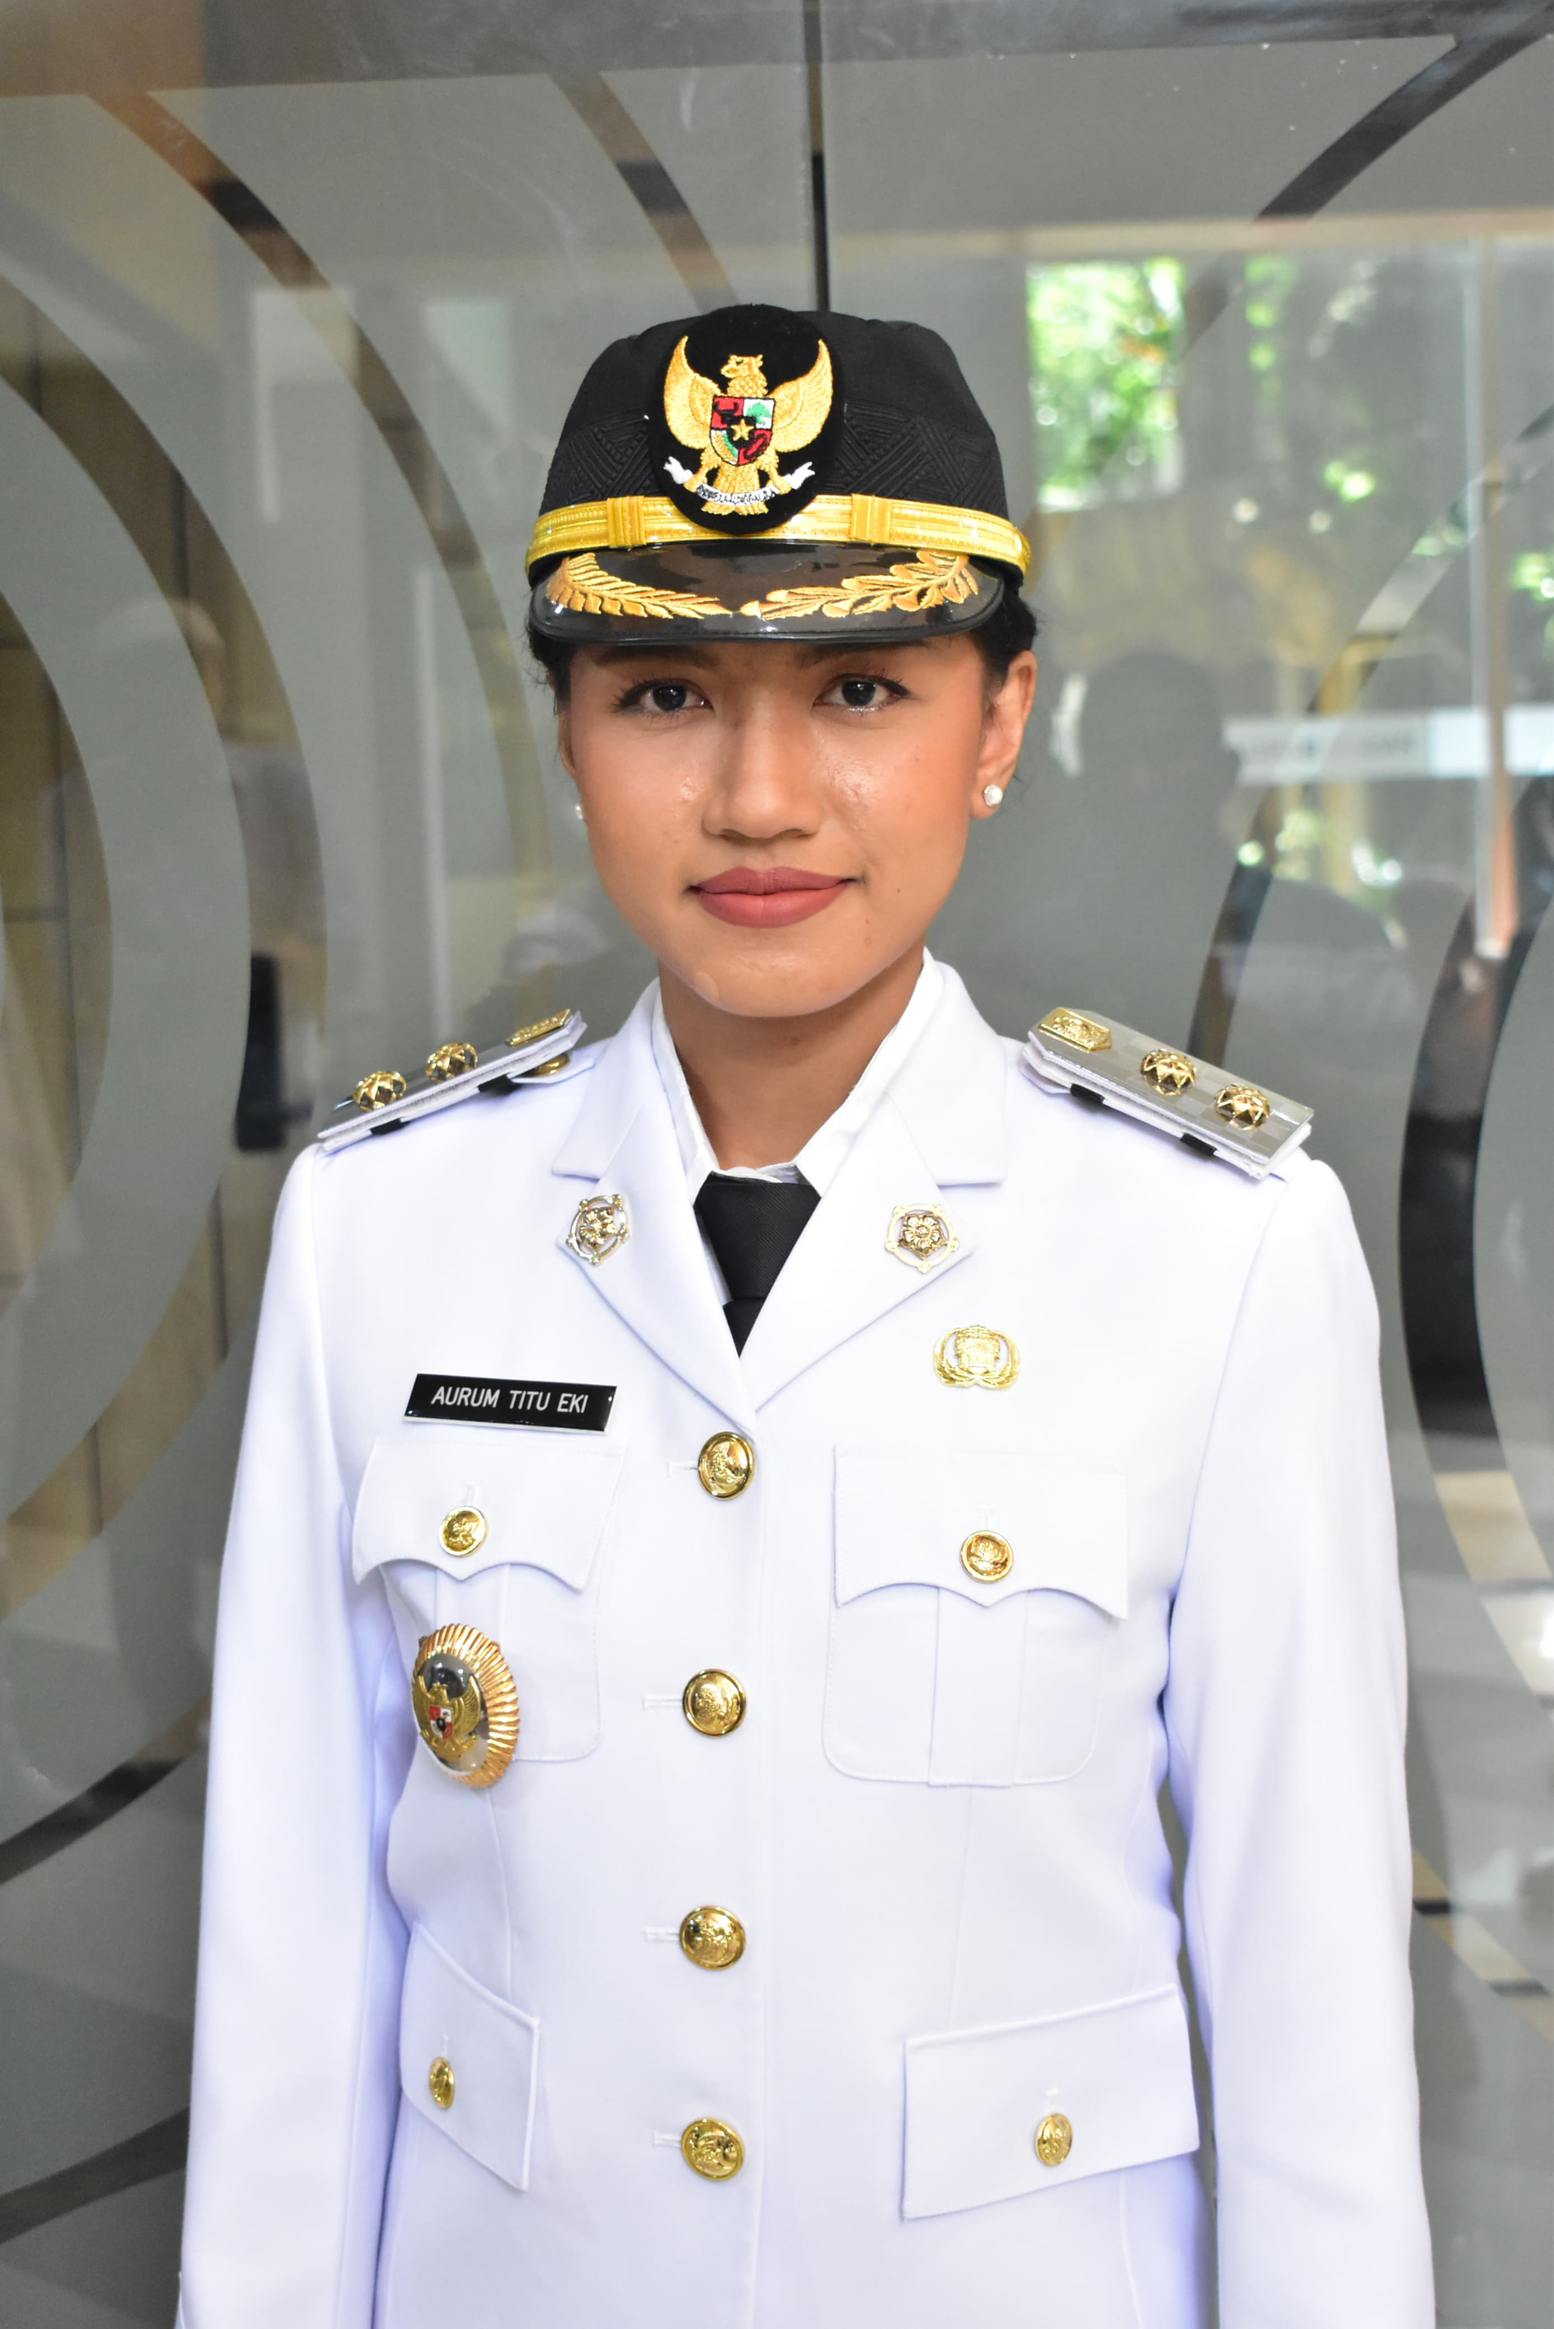
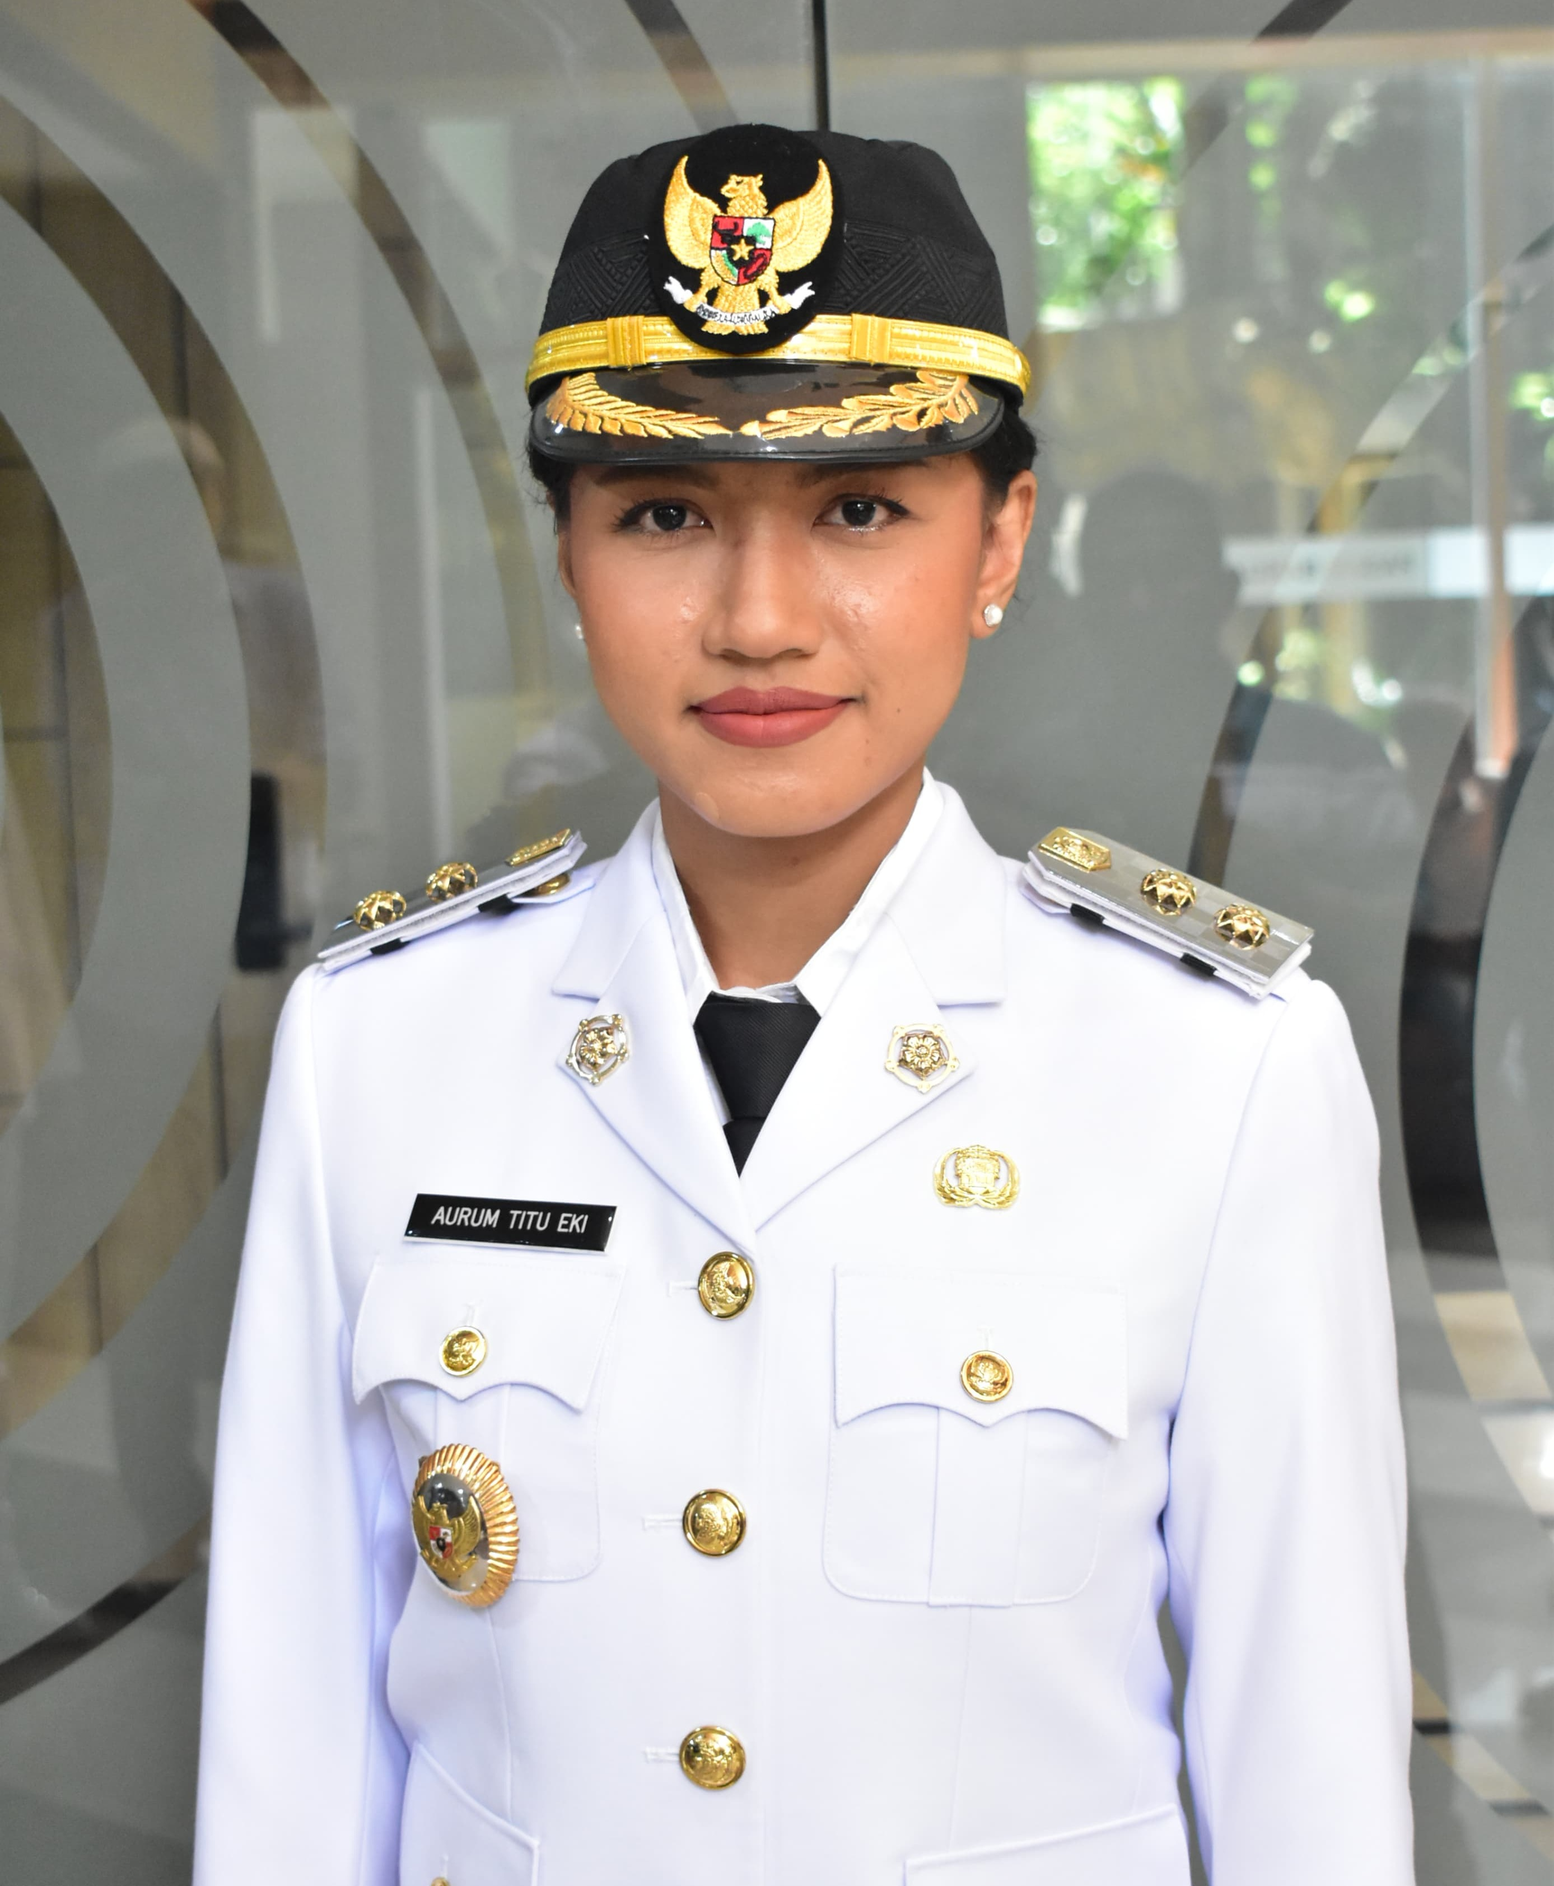
feat: update LeadershipSectionAlternative layout and image handling for better responsiveness

diff --git a/components/home/LeadershipSectionAlternative.jsx b/components/home/LeadershipSectionAlternative.jsx
@@ -38,21 +38,21 @@ export default function LeadershipSectionAlternative() {
           </p>
         </motion.div>
 
-        <div className="flex flex-col md:flex-row gap-8 max-w-6xl mx-auto">
+        <div className="flex flex-col md:flex-row justify-center flex-wrap gap-8 max-w-2xl mx-auto">
           {/* Bupati */}
           <motion.div
             initial={{ opacity: 0, y: 30 }}
             whileInView={{ opacity: 1, y: 0 }}
             viewport={{ once: true }}
             transition={{ duration: 0.6 }}
-            className="flex-1 bg-white/10 backdrop-blur-sm rounded-lg overflow-hidden shadow-xl"
+            className="flex-1 max-w-[360px] bg-white/10 backdrop-blur-sm rounded-lg overflow-hidden shadow-xl mx-auto"
           >
-            <div className="relative h-[690px] overflow-hidden">
+            <div className="relative w-full h-[450px] overflow-hidden">
               <Image
                 src={BupImg}
                 alt="Bupati Kabupaten Kupang"
                 fill
-                className="object-cover object-center"
+                className="object-cover object-top"
                 priority
               />
             </div>
@@ -74,19 +74,21 @@ export default function LeadershipSectionAlternative() {
             whileInView={{ opacity: 1, y: 0 }}
             viewport={{ once: true }}
             transition={{ duration: 0.6, delay: 0.2 }}
-            className="flex-1 bg-white/10 backdrop-blur-sm rounded-lg overflow-hidden shadow-xl"
+            className="flex-1 max-w-[360px] bg-white/10 backdrop-blur-sm rounded-lg overflow-hidden shadow-xl mx-auto"
           >
-            <div className="relative h-[690px] overflow-hidden">
+            <div className="relative w-full h-[450px] overflow-hidden">
               <Image
                 src={WabupImg}
                 alt="Wakil Bupati Kabupaten Kupang"
                 fill
-                className="object-cover object-center"
+                className="object-cover object-top"
                 priority
               />
             </div>
             <div className="p-6">
-              <h3 className="text-2xl font-bold mb-1">Aurum Obe Titu Eki, S.Ars., M.Ars.</h3>
+              <h3 className="text-2xl font-bold mb-1">
+                Aurum Obe Titu Eki, S.Ars., M.Ars.
+              </h3>
               <p className="text-blue-200 font-medium mb-4">
                 Wakil Bupati Kabupaten Kupang
               </p>
